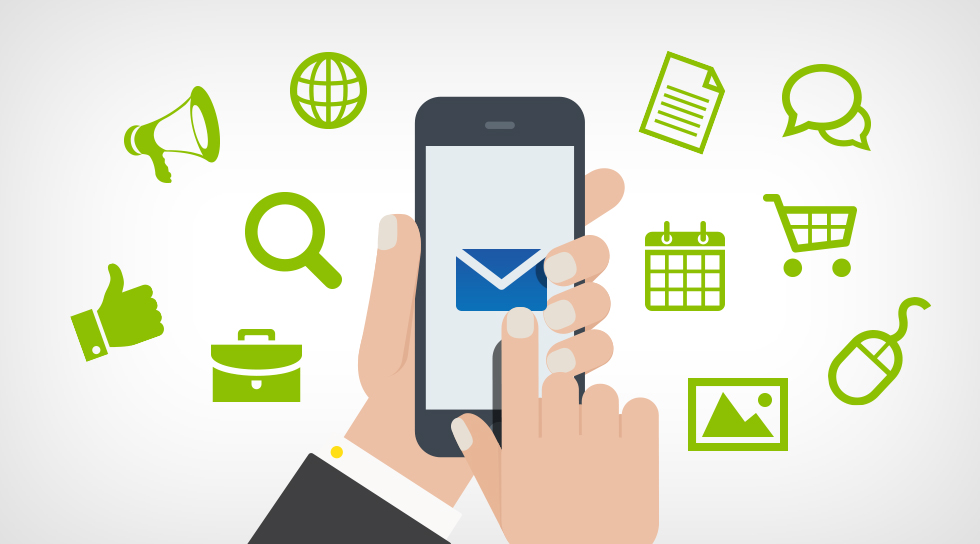
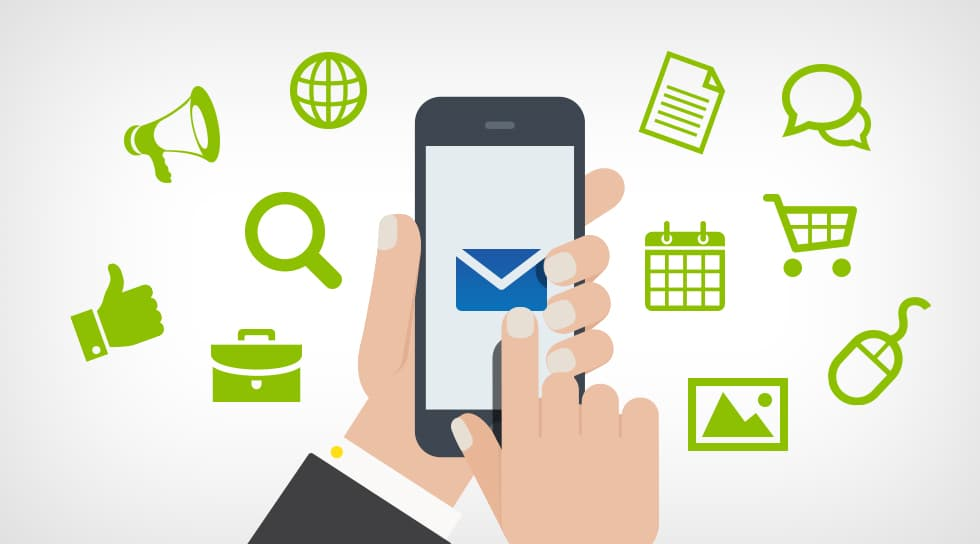
Adds an opitimized version of images

diff --git a/index.html b/index.html
@@ -97,7 +97,7 @@
 															<tr>
 																<td>
 																	<img
-																		src="./images/email-send.png"
+																		src="./images/email-send.jpg"
 																		alt=""
 																		width="100%"
 																		height="140"
@@ -130,7 +130,7 @@
 							</td>
 						</tr>
 						<tr>
-							<td bgcolor="#ee4c50" style="padding: 30px 30px 30px 30px">
+							<td bgcolor="#ee4c50" style="padding: 15px 15px 15px 15px">
 								<table border="0" cellpadding="0" cellspacing="0" width="100%">
 									<tr>
 										<td style="color: #ffffff; font-family: Arial, sans-serif; font-size: 10px">
